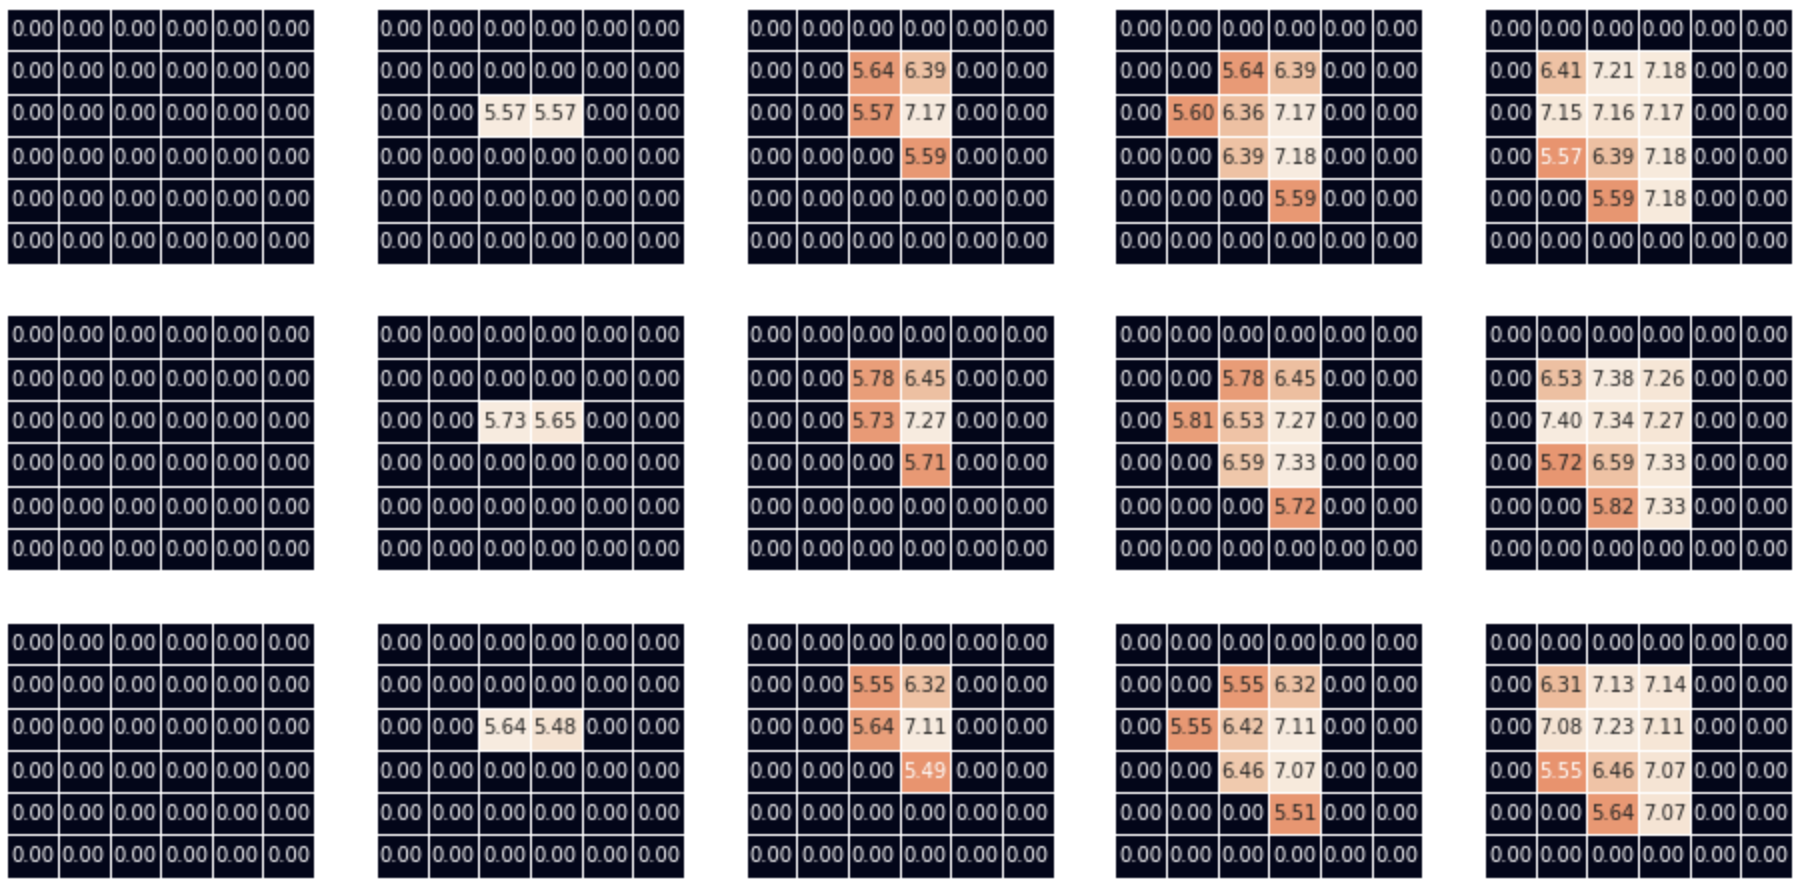
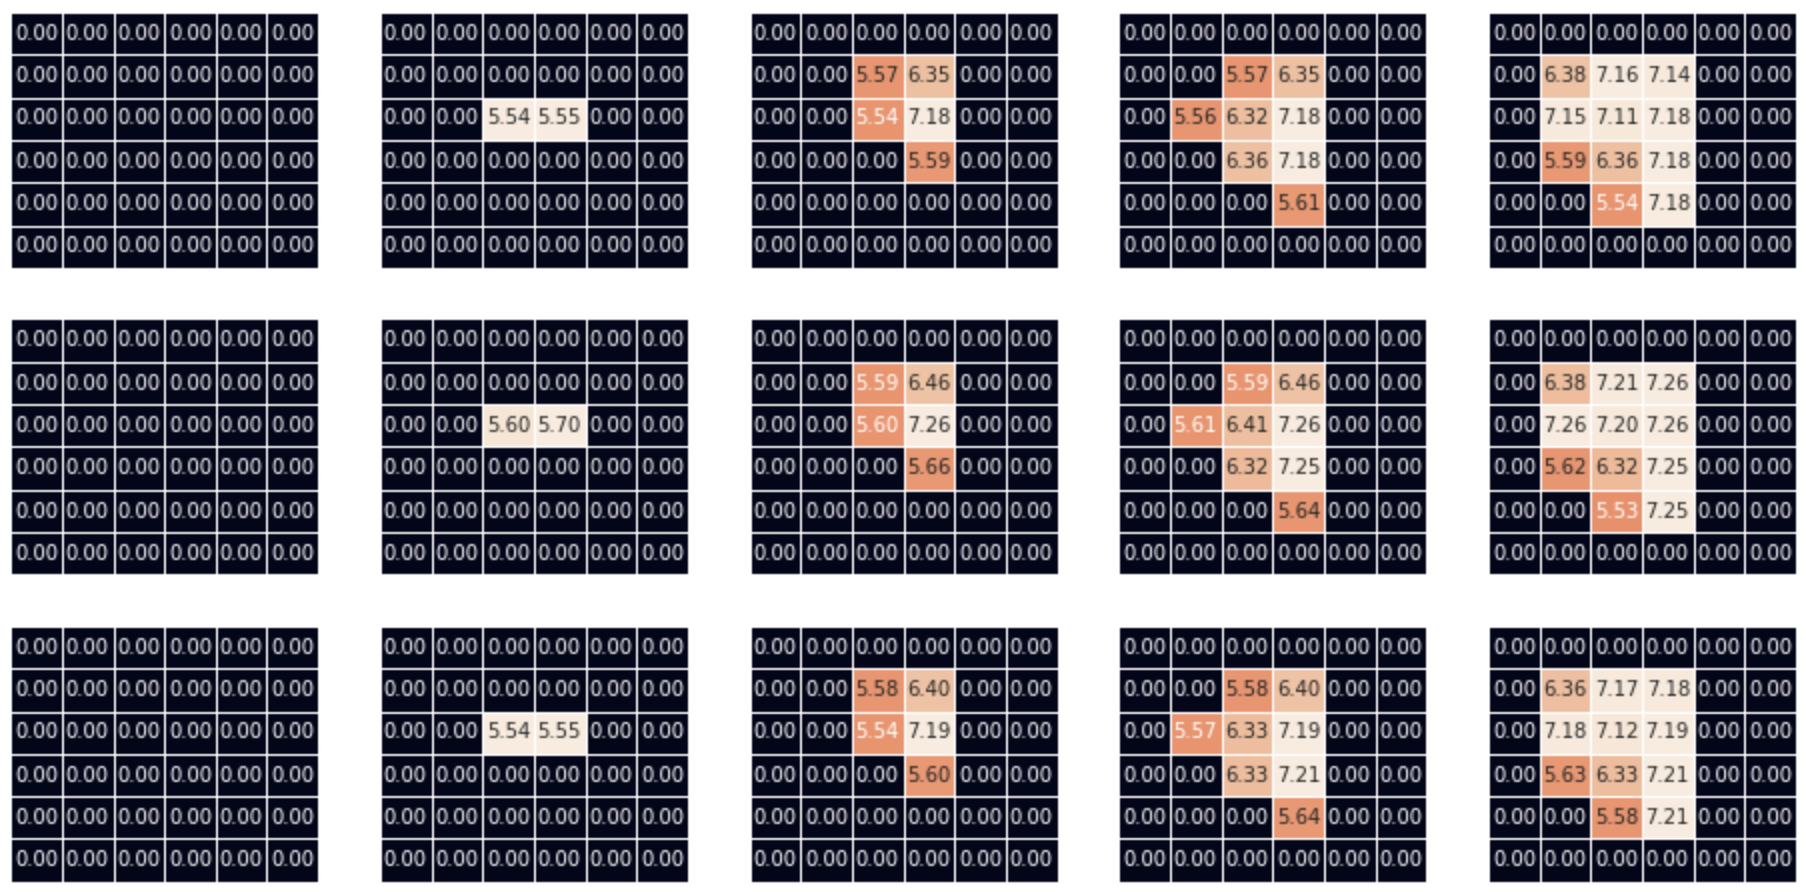
upd(snn.md, ...) fix visualization of stdp

diff --git a/snn.md b/snn.md
@@ -337,13 +337,15 @@ we use this kernel to perform the convolution with our fake input spike train th
 
 ![potentials](images/potentials_after_conv_n_fire.png)
 
-now we perform the pointwise feature competition then call our ```get_k_winners``` function that return our winner ```[(feature_idx=1, row=2, column=2)]```
+now we perform the pointwise feature competition then call our ```get_k_winners``` function that return our winner ```[(feature_idx=1, row=2, column=3)]```
 
 with that we can call our ```functional_stdp``` function that update the weights accordingly. To make the update more visible we use big learning rate values (**a<sup>+</sup>**=0.4, **a<sup>-</sup>=-0.3**) : 
 
 ![random_kernel_updated](images/random_conv_kernel_updated.png)
 
-As we see, our winner is one third row, third column. We see that the input spike train emit a spike on the second feature in first timestep at this position and none for the first feature so we confirm that a LTP happen on the second set of weights for the second feature map and a LTD on the first set of weights of the second feature map.
+As we see, our winner is on second row, third column. It fires at the second timestep. Taking a kernel size rectangular selection, centered around the winner, of the input spike train, we compare pre- and post-synaptic firing time that give us this update rule for the second feature :
+
+![update_rule](images/update_rule.png)
 
 For the last layer of our network that we need to train supervisely in order to teach it to predict the correct label, we use a Reward-Modulated STDP. It consist of using an usual STDP update if the network made the correct prediction or a STDP update with inversed learning rate sign otherwise. We call it anti-STDP update and use **b<sup>+</sup>** and **b<sup>-</sup>** as anti-learning-rate : 
 
